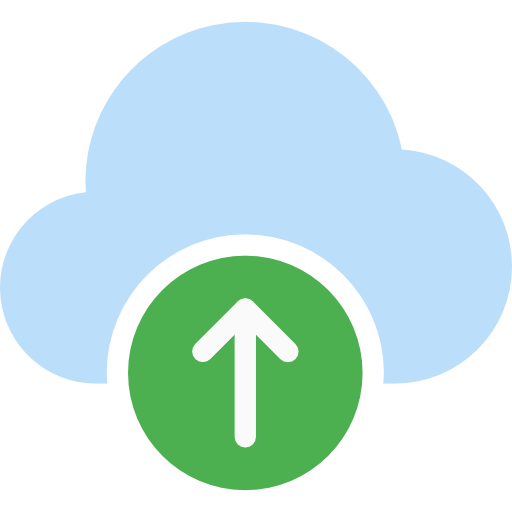
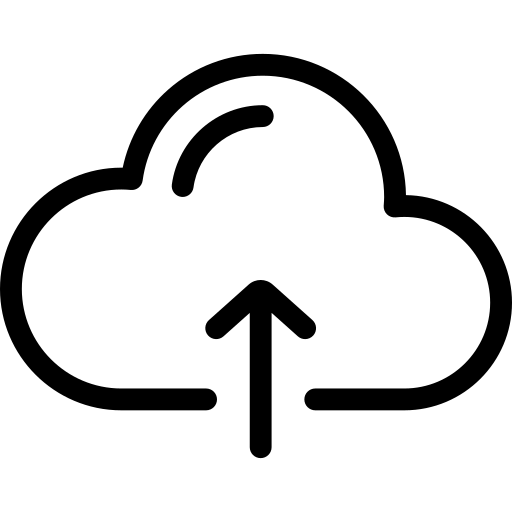
fix front

diff --git a/backend/test.js b/backend/test.js
@@ -1,0 +1,43 @@
+import http from 'k6/http';
+import { check, sleep } from 'k6';
+
+
+export const options = {
+
+  stages:[
+    {
+      duration:'30s',
+      target:50
+    },
+    {
+      duration:'1m',
+      target:100
+    },
+    {
+      duration:'1m',
+      target:200
+    },
+    {
+      duration:'30s',
+      target:0
+    }
+  ]
+
+};
+
+
+export default function(){
+
+    const res = http.get(
+        'http://localhost:4000/test-db'
+    );
+
+
+    check(res,{
+        "status 200":(r)=>r.status===200
+    });
+
+
+    sleep(1);
+
+}

diff --git a/vite-project/src/home/dashboard.jsx b/vite-project/src/home/dashboard.jsx
@@ -26,6 +26,7 @@ import {io} from 'socket.io-client';
     const [AI,setAI]=useState(false)
     const [deleteimage,setdeleteimage]=useState([])
     const inputref=useRef(null)
+    // const [welcom,setwelcom]=useState('')
     const [deleteimg,setdeleteimg]=useState(false)
     const [selectTodelete,setselectTodelete]=useState(false)
     const [deletecancel,setdeletecancel]=useState()
@@ -42,7 +43,16 @@ import {io} from 'socket.io-client';
              const formatRef=useRef(new FormData());
              const socketRef=useRef(null)
 
-    console.log(cloud)
+             //this  good idea but need to be in better way
+// useEffect(()=>{
+//       let count =1;
+// setInterval(() => {
+//   count++;
+//           let wel=['','','hi','how ar u','im zaki web developer this is just welcom','ai cloud is way to find your images using ai']
+// console.log(count)
+// setwelcom(wel[count])
+// },4000)
+// },[])
       useEffect(()=>{
       if(!translate){
         setdeletecancel({
@@ -340,9 +350,7 @@ async function deleteinTheback(){
     catch(error){
         console.error(error)
     }
-    
 
-    
 }
 return(<>
 
@@ -455,7 +463,7 @@ return(<>
           <p className='pro-txt2'>used</p>
           </CircularProgressLabel>
             </CircularProgress>     
-            <p  className='gb'><span className='mb'>{((cloud*100)/5000).toFixed(2)} MB </span>/ 5 GB</p>
+            <p  className='gb'><span className='mb'>{cloud} MB </span>/ 5 GB</p>
         
     </div>
         <div className='still'>
@@ -516,7 +524,7 @@ return(<>
                   <button 
                 onClick={galeryOfpictures}
                 className='search-btn'>
-                  <img className='cloud-img' src='home-button.png' title='Galery' />
+                  <img className='cloud-img' src='gallery.png' title='Galery' />
                   </button>
                   <p className='icon-information'>{translate?japanese[19].jp:'Photo'}</p>
                 </div>
@@ -524,7 +532,7 @@ return(<>
                  <button
                 onClick={()=>setAI(!AI)}
                 className='search-btn'>{scan===false?
-                <img className='cloud-img' src='chip.png' title='AI Search' />:
+                <img className='cloud-img' src='ai.png' title='AI Search' />:
                 <img className='cloud-img' src='Scan.gif' title='AI Search' />
                 }
                   </button>
@@ -560,7 +568,7 @@ return(<>
             </div>
                 {AI !== true && (
   <div className='all-pic'>
-
+    {/* <p>{welcom}</p> */}
     {galery === true && (
       <PhotoProvider>
         {viewall?.map((item, index) => (

diff --git a/vite-project/src/home/dashboard.css b/vite-project/src/home/dashboard.css
@@ -6,8 +6,8 @@
     
     height: 100vh;
     width: 100vw;
-background: linear-gradient(135deg,#e4cadf, #F5F1FF,#F8FAFF); /* W3C, IE 10+/ Edge, Firefox 16+, Chrome 26+, Opera 12+, Safari 7+ */
     background-size: cover;
+    background-color: #f0f2fa;
     display: flex;
     
 }
@@ -24,7 +24,6 @@ background: linear-gradient(135deg,#e4cadf, #F5F1FF,#F8FAFF); /* W3C, IE 10+/ Ed
     margin-left: 0.5%;
     width: 15%;
     height: 100%;
-    background: linear-gradient(rgb(241, 192, 192),rgb(206, 252, 216));
     backdrop-filter: blur(2px);
 }   
 @keyframes show {
@@ -283,7 +282,20 @@ color: rgb(221, 200, 200);
 
 .icon-information{
 font-size: 14px;
+color: #000000;
 font-family: 'Gill Sans', 'Gill Sans MT', Calibri, 'Trebuchet MS', sans-serif;
+}
+.icon-information:hover{
+font-size: 14px;
+color: #f858f0;
+font-family: 'Gill Sans', 'Gill Sans MT', Calibri, 'Trebuchet MS', sans-serif;
+cursor: pointer;
+}
+.icon-information:active{
+font-size: 14px;
+color: #48c9fc;
+font-family: 'Gill Sans', 'Gill Sans MT', Calibri, 'Trebuchet MS', sans-serif;
+cursor: pointer;
 }
 
 .all-pic{

diff --git a/vite-project/src/home/RollHome.jsx b/vite-project/src/home/RollHome.jsx
@@ -217,7 +217,7 @@ const COPY = {
       privacy: "プライバシー",
       contact: "お問い合わせ",
       login: "ログイン",
-      register: "無料で5GB始める",
+      register: "無料で5GB",
       registerMobile:
         "登録 — 無料で5GB"
     },
@@ -372,7 +372,7 @@ const COPY = {
         "質問、提案、フィードバックがございましたら、いつでもご連絡ください。",
 
       email:
-        "[email redacted]"
+        "[email redacted]"
     },
 
 

diff --git a/backend/redis.js b/backend/redis.js
@@ -1,7 +1,7 @@
 import { createClient } from "redis";
 
 const client = await createClient({
-      url: "redis://redis:6379",
+      url: "redis://localhost:6379",
 
 }).on("error", (err) => console.log("Redis Client Error", err))
   .connect();

diff --git a/backend/server.js b/backend/server.js
@@ -54,7 +54,9 @@ app.use('/api',sendEmail)
 app.use('/api',recoverRouter)
 app.use('/api',updatepasswordRoute)
 app.use('/api',newPasswordRouter)
+
 async function start (){
+
 try {
     const res= await pool.query("SELECT NOW()")
     console.log('here near to start server')